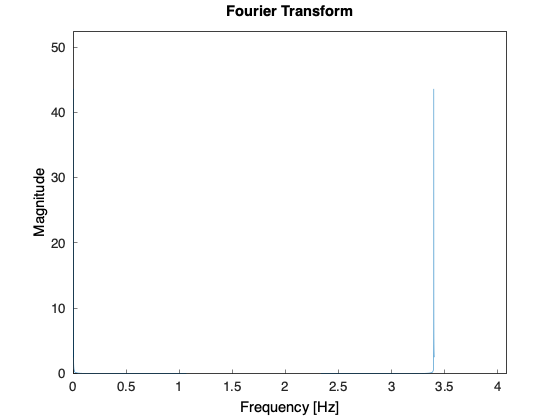
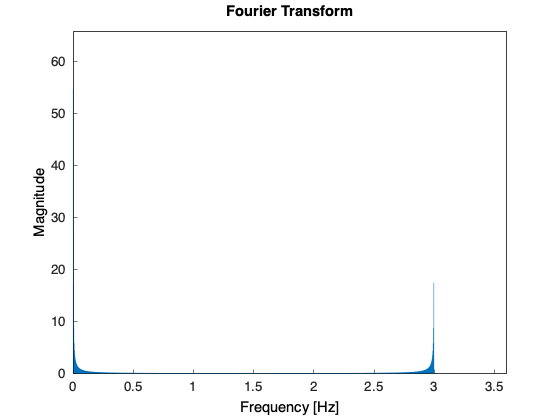
jest ladnie

diff --git a/src/idft.cpp b/src/idft.cpp
@@ -7,14 +7,16 @@
 std::vector<double> idft(Fourier fourier) {
     const std::vector<std::complex<double>> X = fourier.X;
     std::vector<double> samples(X.size());
-    const double scale = 100.0 / X.size();
     
     for (int n = 0; n < X.size(); n++) {
         std::complex<double> sum(0.0, 0.0);
         for (int k = 0; k < X.size(); k++) {
             sum += X[k] * std::exp(std::complex<double>(0, 2.0 * PI * k * n / X.size()));
         }
-        samples[n] = scale * std::real(sum);
+        samples[n] = std::real(sum);
+    }
+    for (int i = 0; i < samples.size(); i++) {
+        samples[i] /=*std::max_element(samples.begin(),samples.end());  // Normalize the result
     }
     
     return samples;

diff --git a/src/generator.cpp b/src/generator.cpp
@@ -34,8 +34,8 @@ std::vector<double> generate(double f, double t_start, double t_end, std::string
     }
     else if (name == "pila") {
         for (int i = 0; i < n; i++) {
-            double phase = 2 * PI * f * i / sf + t_start;
-            signal[i] = (2/PI) * (phase - PI * floor(phase/PI));
+            double phase =  PI * f * i / sf + t_start;
+            signal[i] = (1/PI) * (phase - PI * floor(phase/PI));
         }
     }
     else {
